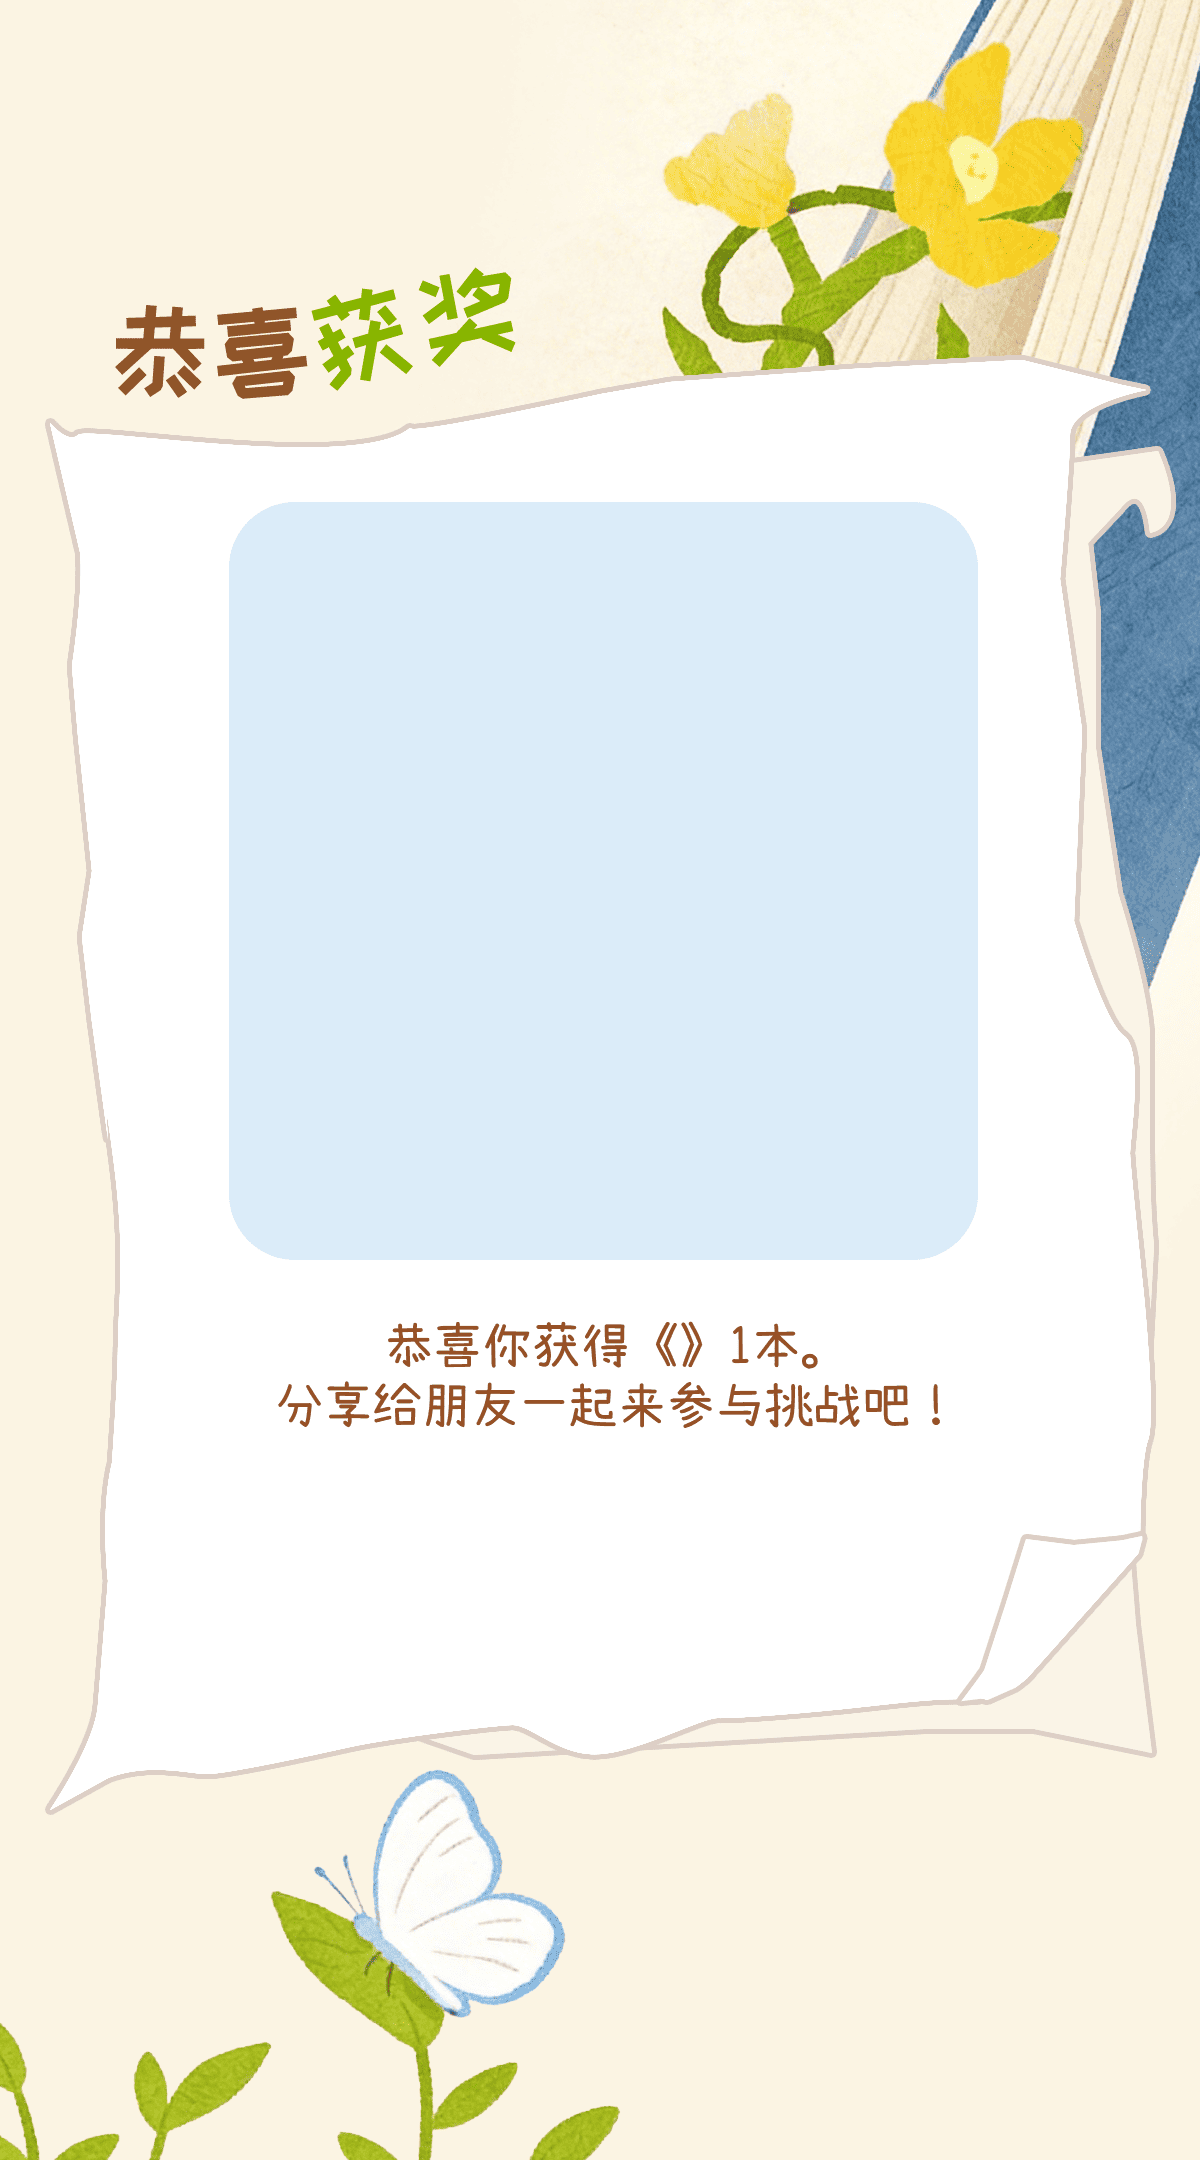
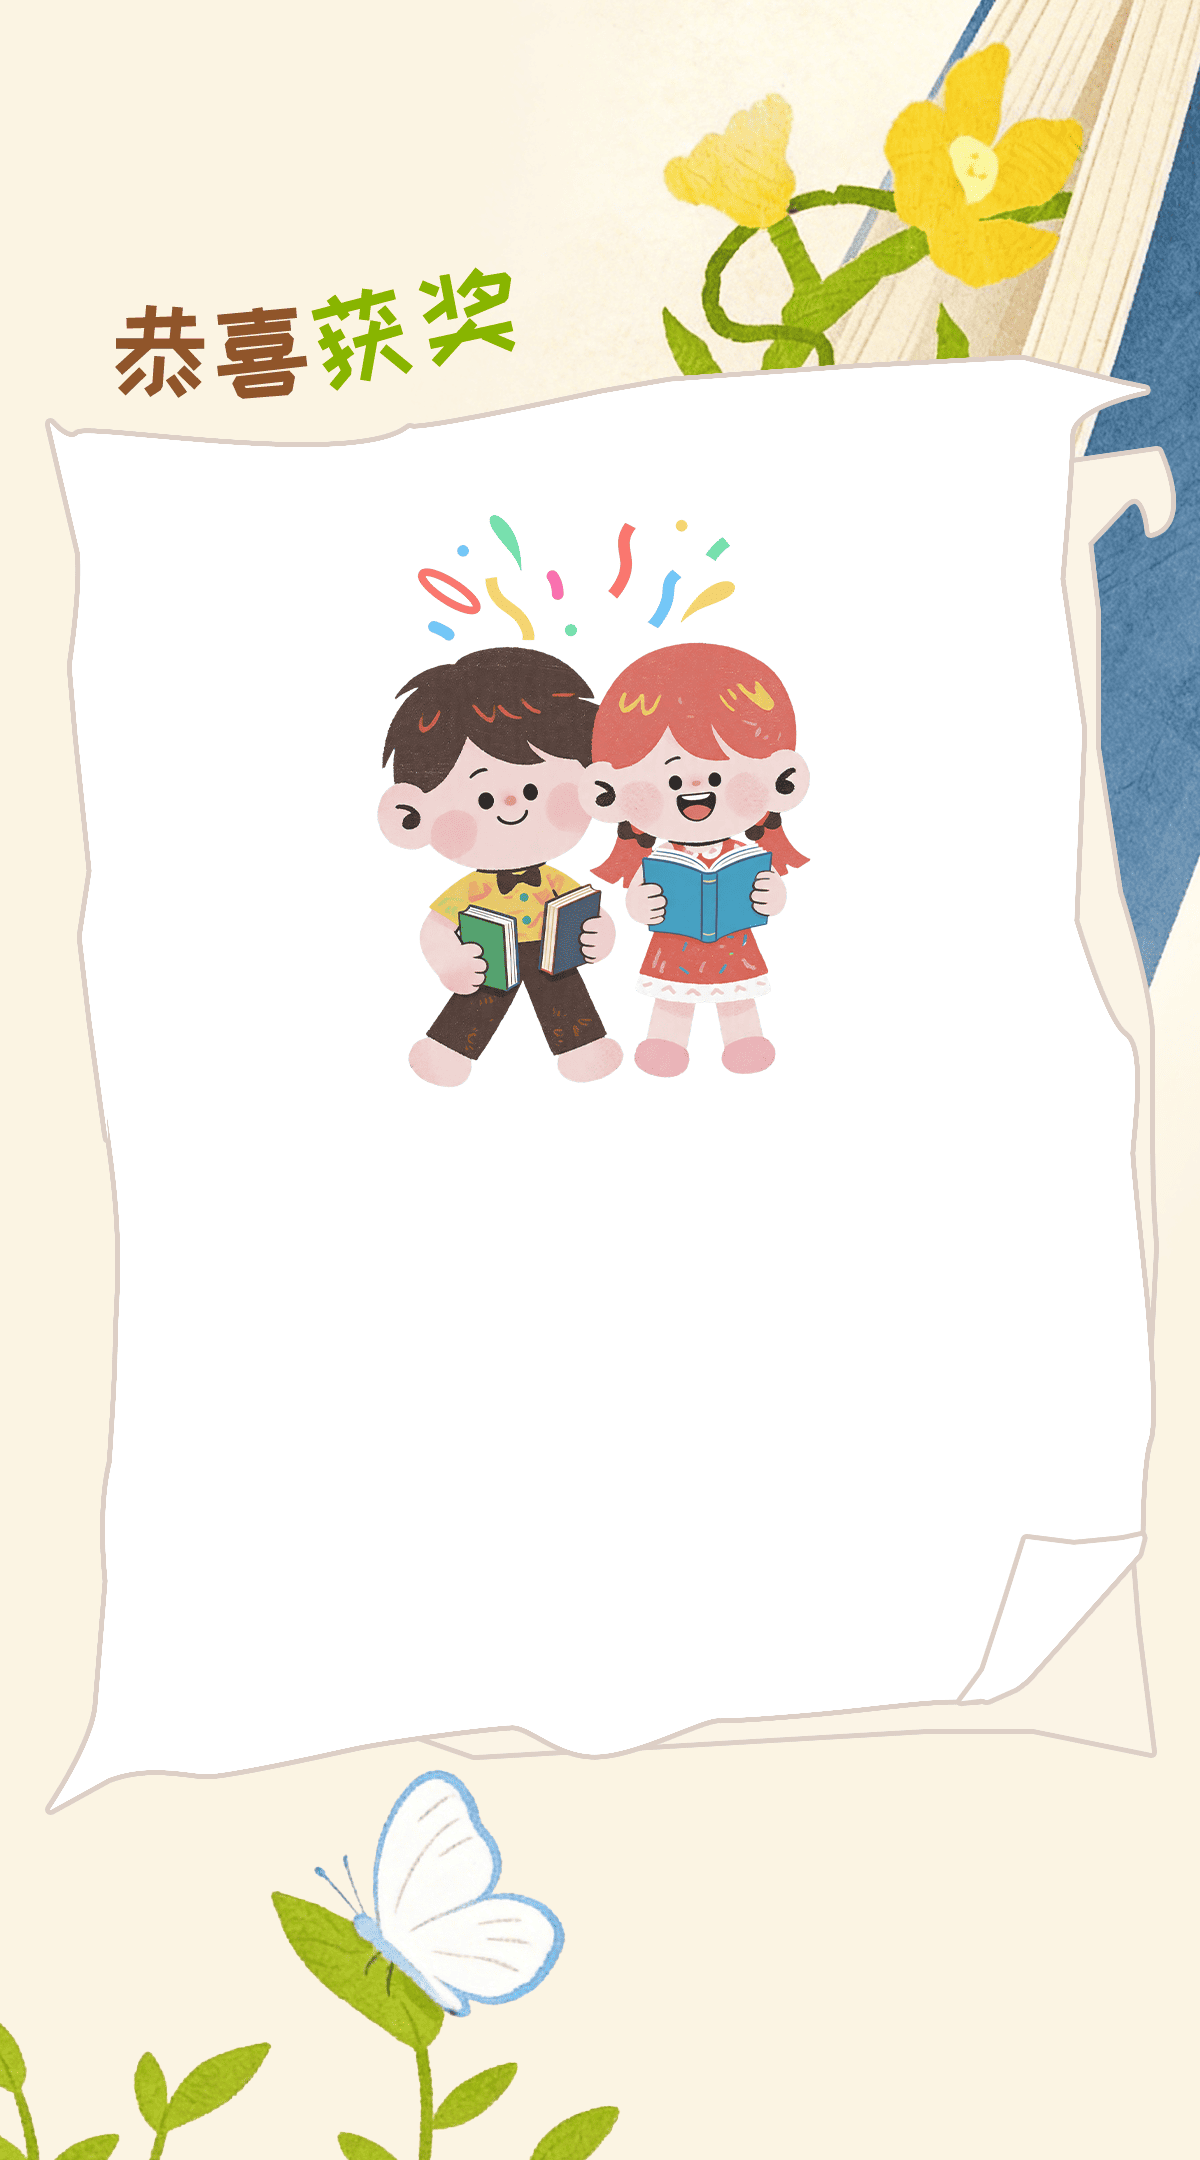
判断用户是否登录，如果未登录，则跳转到登录页

diff --git a/index.html b/index.html
@@ -888,14 +888,33 @@
 
   <audio id="bgMusic" loop preload="auto" playsinline webkit-playsinline src="./assets/bgm.mp3"></audio>
 
+  <script src="./jquery.min.js"></script>
   <script>
     (() => {
+      var phone = window.phone || "";
+      var userAgent = navigator.userAgent || navigator.vendor || window.opera;
+      var isAPP = userAgent.includes("CYOLAPP");
+      // isAPP = 1;
+      if (!isAPP) {
+        $(".shows").show();
+      } else {
+        let isAndroid = userAgent.indexOf("Android") > -1 || userAgent.indexOf("Adr") > -1;
+        var dev = isAndroid ? "Android" : "IOS";
+        if (!phone || phone.length < 100) {
+          if (dev == "Android") {
+            android.actionLogin();
+          } else {
+            window.location.href = "login://";
+          }
+        }
+      }
+
       const STORAGE_KEY = "readingweek_music_enabled";
       const DRAW_STORAGE_KEY = "readingweek_draw_state";
       const NEXT_PAGE_URL = document.body.dataset.nextUrl || "";
       const SWIPE_THRESHOLD = 60;
       const P3_SET_COUNT = 5;
-      const P3_READING_SECONDS = 20;   
+      const P3_READING_SECONDS = 0;   
       // 调试用
       const P3_CORRECT_ANSWERS = {
         1: "3",